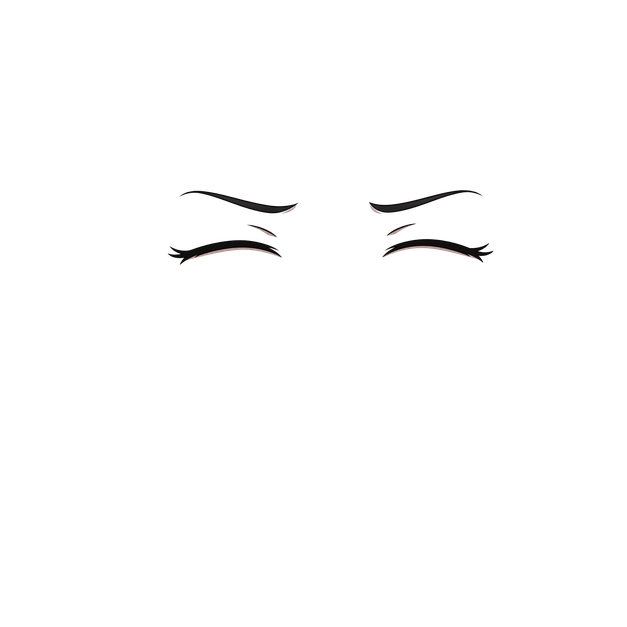
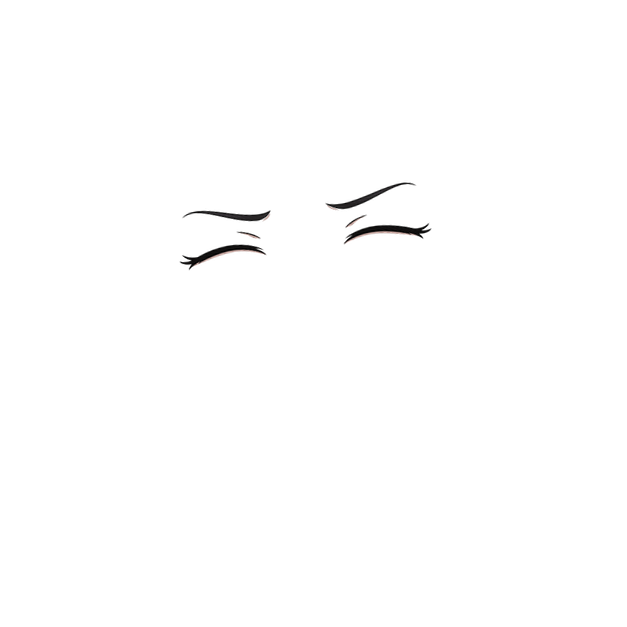
Add files via upload

Changed region(s): [[0.5152, 0.2727, 0.7879, 0.4242], [0.2727, 0.303, 0.4848, 0.4242]]

diff --git a/static/app.js b/static/app.js
@@ -21,7 +21,7 @@
     console.log("[Nanako v9.4] stale service workers/caches/voice-output state purged");
   }catch(err){ console.warn("[Nanako v9.4] purge warning",err); }
 })();
-console.log("[Nanako Frontend] v10.6 CONFUSED STATE + 627 EMOTION FRAMES");
+console.log("[Nanako Frontend] v10.7 CONFUSED STATE ART ALIGN FIX + 627 EMOTION FRAMES");
 // v9.1 SAFETY: purge legacy service workers/caches from pre-Omni frontend builds.
 // The app intentionally runs without a service worker during Omni stabilization.
 (async()=>{
@@ -248,7 +248,7 @@ function stopTalkingLoop(){
 // ============================================================
 // APP / VOICE LOGIC
 // ============================================================
-console.log("[Nanako Build] v10.6 stable audio / first-tap fix / confused emotion state");
+console.log("[Nanako Build] v10.7 stable audio / first-tap fix / confused emotion state art align fix");
 const API="https://nanako-web-pokbkohedy.ap-southeast-1.fcapp.run",CHAT=`${API}/api/chat`,VOICE=`${API}/api/voice`,RESET=`${API}/api/reset`;
 const VAD={
   calibrationMs:350,
